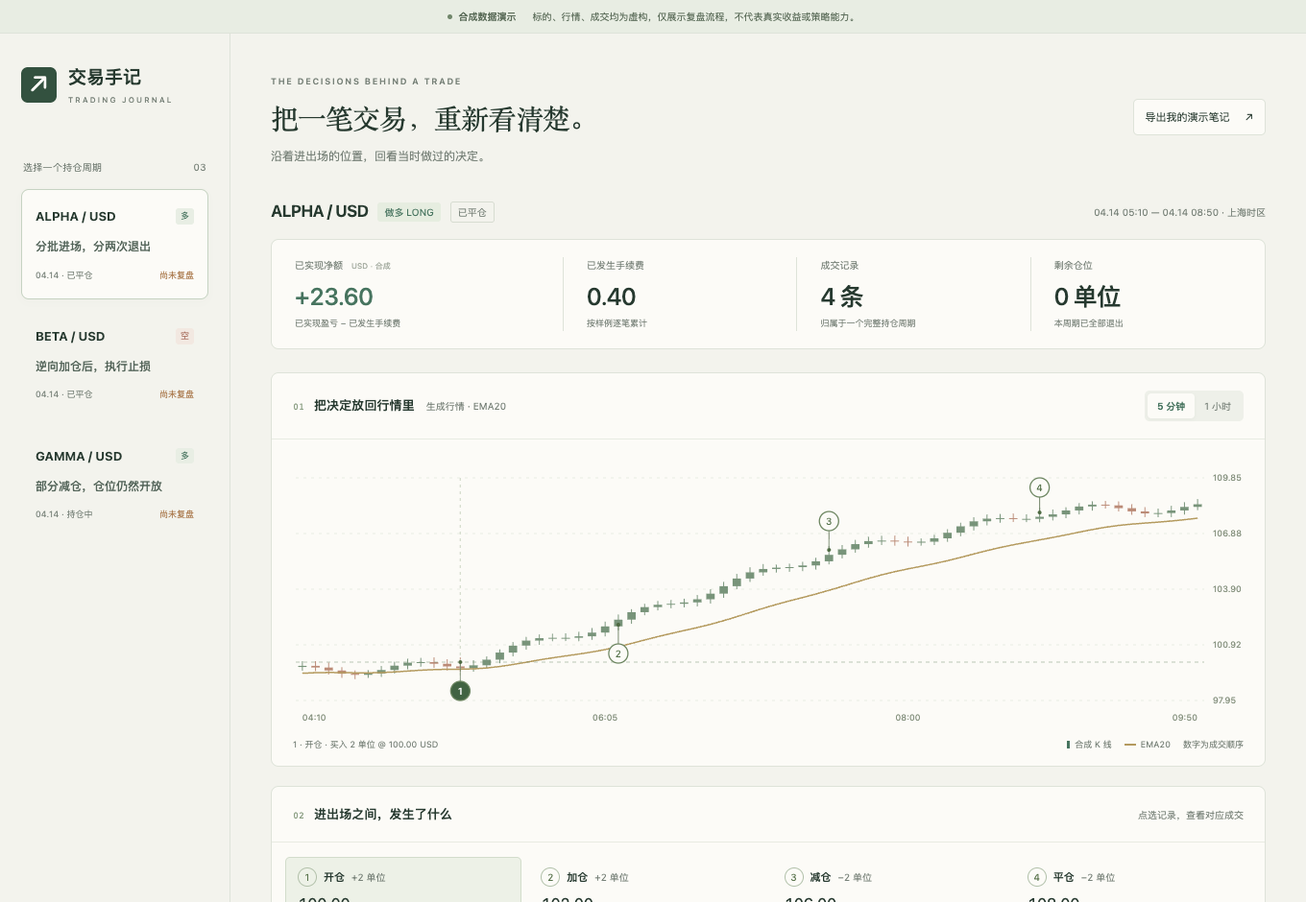
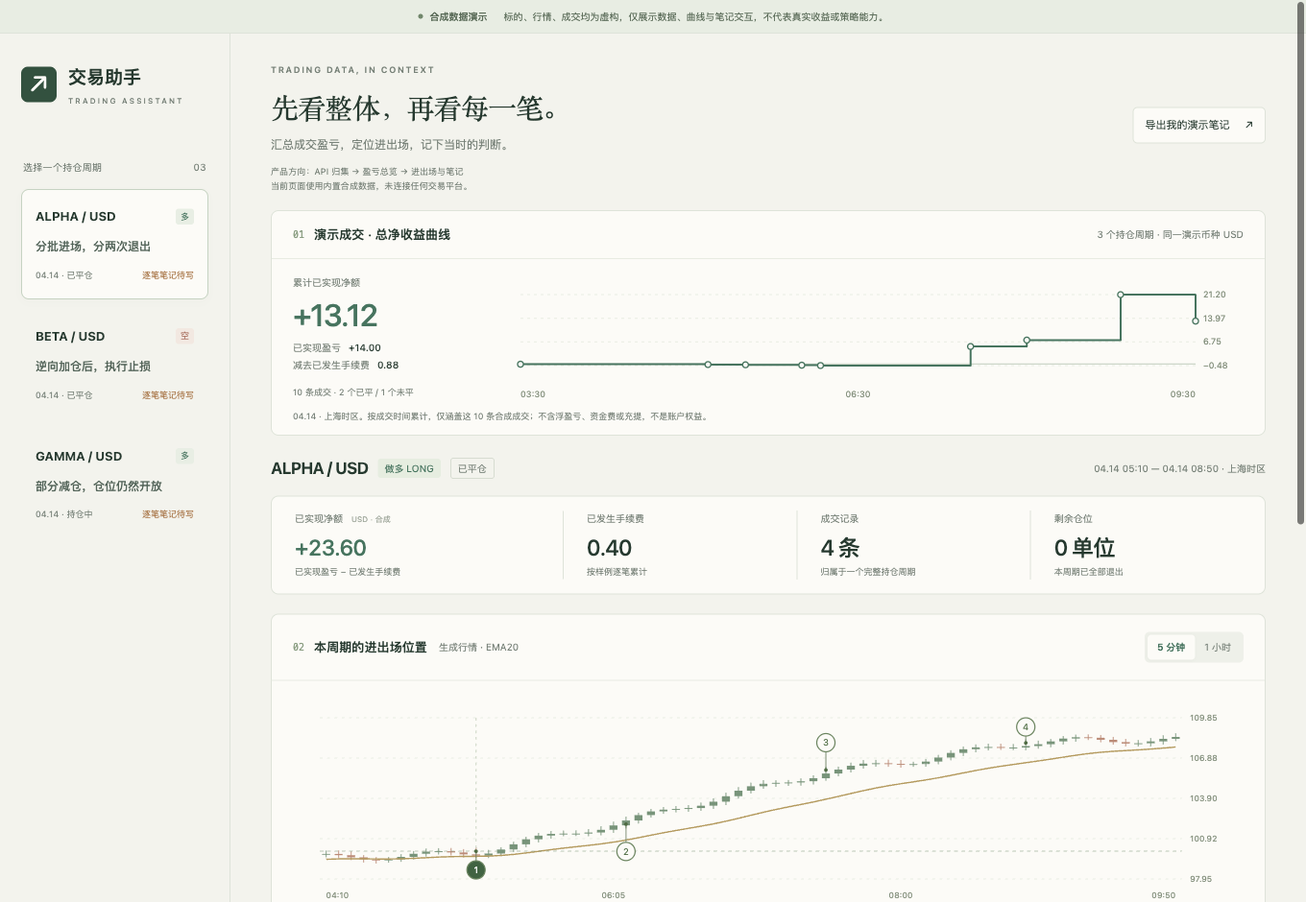
feat: present Trading Assistant around data, PnL and trade context

diff --git a/demos/trading/index.html b/demos/trading/index.html
@@ -4,7 +4,7 @@
   <meta charset="utf-8">
   <meta name="viewport" content="width=device-width,initial-scale=1">
   <meta name="color-scheme" content="light">
-  <title>交易手记 · 合成数据演示</title>
+  <title>交易助手 · 合成数据演示</title>
   <link rel="icon" href="data:,">
   <link rel="stylesheet" href="style.css">
   <script src="demo-model.js" defer></script>
@@ -12,25 +12,30 @@
 </head>
 <body>
 <a class="skip" href="#chart-title">跳到选中交易</a>
-<div class="demo-notice"><span><i></i>合成数据演示</span><p>标的、行情、成交均为虚构，仅展示复盘流程，不代表真实收益或策略能力。</p></div>
+<div class="demo-notice"><span><i></i>合成数据演示</span><p>标的、行情、成交均为虚构，仅展示数据、曲线与笔记交互，不代表真实收益或策略能力。</p></div>
 <div class="layout">
   <aside class="rail" aria-label="持仓周期选择">
-    <a class="brand" href="./"><span class="brand-icon" aria-hidden="true">↗</span><span>交易手记<small>TRADING JOURNAL</small></span></a>
+    <a class="brand" href="./"><span class="brand-icon" aria-hidden="true">↗</span><span>交易助手<small>TRADING ASSISTANT</small></span></a>
     <div class="rail-heading"><span>选择一个持仓周期</span><span>03</span></div>
     <div id="cycles" class="cycle-list"></div>
-    <div class="rail-foot"><span class="eyebrow">从过程里找原因</span><p>一次完整持仓，<br>可能包含很多次决定。</p><div>合成样例按开仓日归档。<br>全部交互在浏览器内完成。</div></div>
+    <div class="rail-foot"><span class="eyebrow">从数据回到判断</span><p>先看整体表现，<br>再看每一次进出场。</p><div>交易数据 → 整体表现 → 逐笔判断<br>演示成交仅在浏览器中计算。</div></div>
   </aside>
   <main>
-    <header class="page-header"><div><span class="eyebrow">THE DECISIONS BEHIND A TRADE</span><h1><span>把一笔交易，</span><span>重新看清楚。</span></h1><p>沿着进出场的位置，回看当时做过的决定。</p></div><button id="export-notes" class="quiet-button">导出我的演示笔记 <span aria-hidden="true">↗</span></button></header>
+    <header class="page-header"><div><span class="eyebrow">TRADING DATA, IN CONTEXT</span><h1><span>先看整体，</span><span>再看每一笔。</span></h1><p>汇总成交盈亏，定位进出场，记下当时的判断。</p><div class="product-direction">产品方向：API 归集 → 盈亏总览 → 进出场与笔记<br>当前页面使用内置合成数据，未连接任何交易平台。</div></div><button id="export-notes" class="quiet-button">导出我的演示笔记 <span aria-hidden="true">↗</span></button></header>
+    <section class="overview-card" aria-labelledby="overview-title">
+      <div class="panel-top"><div><span class="section-number">01</span><h2 id="overview-title">演示成交 · 总净收益曲线</h2></div><span class="subtle">3 个持仓周期 · 同一演示币种 USD</span></div>
+      <div class="overview-body"><div class="overview-stats"><span>累计已实现净额</span><strong id="overall-net"></strong><p>已实现盈亏 <b id="overall-gross"></b><br>减去已发生手续费 <b id="overall-fee"></b></p><span class="overview-count" id="overall-count"></span></div><div id="overall-chart" class="overall-chart"></div></div>
+      <p class="overview-scope">04.14 · 上海时区。按成交时间累计，仅涵盖这 10 条合成成交；不含浮盈亏、资金费或充提，不是账户权益。</p>
+    </section>
     <div class="selection-heading"><div><span id="instrument" class="instrument"></span><span id="direction" class="direction"></span><span id="position-state" class="state-label"></span></div><span id="date-range"></span></div>
     <section class="metrics" aria-label="选中周期统计"><div class="metric"><span>已实现净额 <small>USD · 合成</small></span><strong id="metric-net"></strong><p>已实现盈亏 − 已发生手续费</p></div><div class="metric"><span>已发生手续费</span><strong id="metric-fee"></strong><p>按样例逐笔累计</p></div><div class="metric"><span>成交记录</span><strong id="metric-count"></strong><p id="metric-count-caption"></p></div><div class="metric"><span>剩余仓位</span><strong id="metric-position"></strong><p id="metric-position-caption"></p></div></section>
     <section class="chart-card" aria-label="行情与成交">
-      <div class="panel-top"><div><span class="section-number">01</span><h2 id="chart-title">把决定放回行情里</h2><span class="chart-sub">生成行情 · EMA20</span></div><div class="intervals" aria-label="图表周期"><button data-interval="5m" aria-pressed="true">5 分钟</button><button data-interval="1h" aria-pressed="false">1 小时</button></div></div>
+      <div class="panel-top"><div><span class="section-number">02</span><h2 id="chart-title">本周期的进出场位置</h2><span class="chart-sub">生成行情 · EMA20</span></div><div class="intervals" aria-label="图表周期"><button data-interval="5m" aria-pressed="true">5 分钟</button><button data-interval="1h" aria-pressed="false">1 小时</button></div></div>
       <div id="chart" class="chart"></div>
       <div class="chart-bottom"><span id="chart-caption"></span><div class="legend"><span><i class="candle-key"></i>合成 K 线</span><span><i class="ema-key"></i>EMA20</span><span>数字为成交顺序</span></div></div>
     </section>
-    <section class="decisions-card" aria-label="成交时间线"><div class="panel-top"><div><span class="section-number">02</span><h2>进出场之间，发生了什么</h2></div><span class="subtle">点选记录，查看对应成交</span></div><div id="fill-timeline" class="fill-timeline"></div><div id="fill-detail" class="fill-detail" aria-live="polite"></div><p class="reason-line">样例记录的退出原因：<span id="declared-reason"></span></p></section>
-    <section class="notes-card" aria-labelledby="notes-title"><div class="panel-top"><div><span class="section-number">03</span><h2 id="notes-title">留下下一次用得上的判断</h2></div><span id="save-state" class="save-state" role="status" aria-live="polite"></span></div><p id="review-question" class="review-question"></p><div class="note-grid"><label class="wide">当时的依据与现在的看法<textarea id="reflection" maxlength="2000" rows="3" placeholder="例如：最初的入场依据是什么？后来的加仓是否改变了风险？"></textarea></label><label>你记录的出场原因<select id="exit-reason"><option value="">选择原因，不从盈亏推断</option></select></label><div><span class="field-label">这次想关注的问题</span><div id="issue-tags" class="issue-tags"></div></div><label class="wide">下一次，具体改哪一步？<textarea id="next-action" maxlength="2000" rows="2" placeholder="写一个能执行、也能检查的改变。"></textarea></label></div><div class="note-footer"><label class="complete-toggle"><input id="review-complete" type="checkbox"><span id="complete-label">这轮复盘已完成</span></label><span>只保存在当前浏览器，可导出带走。</span></div></section>
+    <section class="decisions-card" aria-label="成交时间线"><div class="panel-top"><div><span class="section-number">03</span><h2>逐笔成交与判断</h2></div><span class="subtle">点选记录，查看对应成交</span></div><div id="fill-timeline" class="fill-timeline"></div><div id="fill-detail" class="fill-detail" aria-live="polite"></div><div class="fill-note"><label for="fill-note"><span id="fill-note-label">这笔成交的笔记</span><span id="fill-save-state" class="save-state" role="status" aria-live="polite"></span></label><textarea id="fill-note" maxlength="2000" rows="3" placeholder="这次进场或离场的依据是什么？记录这笔成交发生时的想法。"></textarea><p>每笔成交单独保存，切换记录继续写。仅保存在此浏览器，可导出。</p></div><p class="reason-line">样例记录的退出原因：<span id="declared-reason"></span></p></section>
+    <details class="notes-card"><summary>周期补充记录 <span>出场原因、问题标签与下一次改进</span></summary><div class="panel-top"><h2 id="notes-title">这轮持仓的补充笔记</h2><span id="save-state" class="save-state" role="status" aria-live="polite"></span></div><p id="review-question" class="review-question"></p><div class="note-grid"><label class="wide">当时的依据与现在的看法<textarea id="reflection" maxlength="2000" rows="3" placeholder="例如：最初的入场依据是什么？后来的加仓是否改变了风险？"></textarea></label><label>你记录的出场原因<select id="exit-reason"><option value="">选择原因，不从盈亏推断</option></select></label><div><span class="field-label">这次想关注的问题</span><div id="issue-tags" class="issue-tags"></div></div><label class="wide">下一次，具体改哪一步？<textarea id="next-action" maxlength="2000" rows="2" placeholder="写一个能执行、也能检查的改变。"></textarea></label></div><div class="note-footer"><label class="complete-toggle"><input id="review-complete" type="checkbox"><span id="complete-label">这轮复盘已完成</span></label><span>只保存在当前浏览器，可导出带走。</span></div></details>
     <p class="method-note">示例采用固定成交与整数分金额，已实现盈亏按移动平均持仓成本计算。未平仓部分不计浮盈亏；未模拟资金费、滑点或杠杆收益率。图表由程序生成，没有市场数据连接。 <a href="https://ginbrooks.github.io/#trading" style="text-decoration:underline;text-underline-offset:3px;white-space:nowrap">返回作品集 ↗</a></p>
     <div id="export-status" role="status" aria-live="polite"></div>
   </main>

diff --git a/index.html b/index.html
@@ -4,10 +4,10 @@
   <meta charset="utf-8">
   <meta name="viewport" content="width=device-width, initial-scale=1">
   <meta name="theme-color" content="#172723">
-  <meta name="description" content="ginbrooks 的产品作品集：Book Wiki Reader、出运单证工作台与交易手记。体验有来源、可复核的本地工具。">
+  <meta name="description" content="ginbrooks 的产品作品集：Book Wiki Reader、出运单证工作台与交易助手。体验有来源、可复核的本地工具。">
   <meta property="og:type" content="website">
   <meta property="og:title" content="ginbrooks — 把想法做成可以用的工具">
-  <meta property="og:description" content="阅读、出运与交易复盘：三件从实际问题出发的产品。">
+  <meta property="og:description" content="阅读、出运与交易分析：三件从实际问题出发的产品。">
   <meta property="og:url" content="https://ginbrooks.github.io/">
   <title>ginbrooks — 把想法做成可以用的工具</title>
   <link rel="icon" href="assets/favicon.svg" type="image/svg+xml">
@@ -24,14 +24,14 @@
       <div class="hero-copy">
         <p class="eyebrow"><span class="tiny-line"></span>INDEPENDENT PROJECTS · 2026</p>
         <h1 id="hero-title">把想法做成<br>可以用的<span class="serif">工具。</span></h1>
-        <p class="intro">从阅读、出运到交易复盘，把信息整理成能查、能核对、<br class="desktop-break">能继续使用的工作台。</p>
+        <p class="intro">从阅读、出运到交易分析，把信息整理成能查、能核对、<br class="desktop-break">能继续使用的工作台。</p>
         <div class="hero-actions"><a class="button primary" href="#work">体验作品</a><a class="text-link" href="https://github.com/ginbrooks" target="_blank" rel="noopener noreferrer">查看 GitHub</a></div>
       </div>
       <div class="hero-index" aria-label="本期作品索引">
         <span class="index-heading">SELECTED WORK / 01—03</span>
         <a class="index-item" href="#book"><span class="index-number">01</span><span><strong>Book Wiki Reader</strong><small>阅读 → 理解 → 回到原文</small></span><span class="index-label">READING</span></a>
         <a class="index-item" href="#shipping"><span class="index-number">02</span><span><strong>出运单证工作台</strong><small>资料 → 复核 → 一致的文件</small></span><span class="index-label">OPERATIONS</span></a>
-        <a class="index-item" href="#trading"><span class="index-number">03</span><span><strong>交易手记</strong><small>成交 → 过程 → 下一次改进</small></span><span class="index-label">REFLECTION</span></a>
+        <a class="index-item" href="#trading"><span class="index-number">03</span><span><strong>交易助手</strong><small>API 接入 → 盈亏总览 → 逐笔复盘</small></span><span class="index-label">ANALYTICS</span></a>
         <p class="index-note">从具体场景出发。<br>让每一个结果，都有迹可循。</p>
       </div>
     </section>
@@ -83,26 +83,26 @@
       </div>
     </article>
     <article class="project shipping-project wrap" id="trading" aria-labelledby="trading-title">
-      <div class="project-heading"><p class="eyebrow"><span class="project-number">03</span> TRADING & REFLECTION</p><span class="project-kind">个人交易复盘 / 本地工具</span></div>
+      <div class="project-heading"><p class="eyebrow"><span class="project-number">03</span> TRADING DATA & ANALYTICS</p><span class="project-kind">API 数据接入 / 盈亏分析</span></div>
       <div class="project-grid">
         <div class="project-copy">
-          <h2 id="trading-title">交易手记<span class="serif">。</span></h2>
-          <p class="project-lead">把一笔交易，<br>从头到尾看清楚。</p>
-          <p class="body-copy">一次开仓、加仓、分批退出，往往散成多条成交。把它们放回同一段持仓过程，对照行情与费用，再留下下一次能用上的复盘。</p>
-          <div class="tags"><span>持仓周期</span><span>成交追溯</span><span>结构化复盘</span></div>
-          <div class="project-actions"><a class="button primary" href="demos/trading/">体验交易复盘</a><span class="source-note">产品源码私有</span></div>
-          <p class="demo-note">独立交互演示，交易与行情均为合成数据。</p>
+          <h2 id="trading-title">交易助手<span class="serif">。</span></h2>
+          <p class="project-lead">接上交易数据，<br>看清整体，也看清每一笔。</p>
+          <p class="body-copy">通过平台 API 同步成交与费用，自动整理持仓和盈亏。先看累计交易表现，再点开一笔交易，查看入场出场位置，并把复盘笔记留在对应记录下。</p>
+          <div class="tags"><span>API 同步</span><span>盈亏曲线</span><span>买卖点与笔记</span></div>
+          <div class="project-actions"><a class="button primary" href="demos/trading/">体验交易助手</a><span class="source-note">产品源码私有</span></div>
+          <p class="demo-note">独立合成演示：总览曲线、进出场图与交易笔记。</p>
         </div>
-        <a class="product-frame trading-frame" href="demos/trading/" aria-label="体验交易手记的合成数据演示">
-          <div class="window-toolbar"><span class="window-dots" aria-hidden="true"><i></i><i></i><i></i></span><span>Trading Journal / 交易手记</span><span class="toolbar-meta">REFLECT</span></div>
-          <div class="screenshot-wrap"><img src="assets/trading-preview.png" alt="交易手记合成演示：持仓周期、成交图表与结构化复盘卡" width="1360" height="940" loading="lazy"></div>
-          <div class="frame-caption"><span>看清发生了什么，留下下一次的改进。</span><strong>进入演示</strong></div>
+        <a class="product-frame trading-frame" href="demos/trading/" aria-label="体验交易助手的合成数据演示">
+          <div class="window-toolbar"><span class="window-dots" aria-hidden="true"><i></i><i></i><i></i></span><span>Trading Assistant / 交易助手</span><span class="toolbar-meta">ANALYZE</span></div>
+          <div class="screenshot-wrap"><img src="assets/trading-preview.png" alt="交易助手合成演示：累计盈亏曲线、入场出场位置与交易笔记" width="1360" height="940" loading="lazy"></div>
+          <div class="frame-caption"><span>从整体交易表现，看到每一次进出场。</span><strong>进入演示</strong></div>
         </a>
       </div>
       <div class="detail-grid">
-        <div><span class="detail-label">问题</span><h3>盈亏结果，讲不完一次交易。</h3><p>开仓、加仓和退出分散在不同记录里，只看最后的数字，很难回忆当时的判断与执行。</p></div>
-        <div><span class="detail-label">处理方式</span><h3>把成交、行情和判断放在一起。</h3><p>按持仓周期保留完整过程，区分费用和已实现盈亏。记录出场原因、问题标签、下一次改进，再明确标记复盘完成。</p></div>
-        <div><span class="detail-label">实现边界</span><h3>公开体验，使用合成样例。</h3><p>本机产品支持只读历史同步；公开演示独立实现，不连接账户。行情与收益仅用于说明操作，不代表真实交易表现。</p></div>
+        <div><span class="detail-label">数据接入</span><h3>成交和费用，直接从 API 归集。</h3><p>减少手动抄录与反复导表。同步记录后整理持仓过程，保留成交来源、费用和历史覆盖情况。</p></div>
+        <div><span class="detail-label">分析与复盘</span><h3>先看总曲线，再看买卖点。</h3><p>查看累计已实现净盈亏，回到 5 分钟 / 1 小时图上的入场出场点，在对应交易下记下当时的判断。</p></div>
+        <div><span class="detail-label">接入进度</span><h3>向多平台统一分析扩展。</h3><p>当前支持 Binance USD-M，点击同步更新。跨平台合并盈亏与持续实时同步待接通；公开演示使用合成数据。</p></div>
       </div>
     </article>
     <section class="approach" id="approach" aria-labelledby="approach-title">
@@ -115,7 +115,7 @@
         </div>
       </div>
     </section>
-    <section class="closing wrap"><p class="eyebrow">FROM EVERYDAY WORK</p><h2>从一件麻烦的小事开始。</h2><p>这些项目还在继续完善。公开项目附源码，交易手记提供合成体验。</p><a class="button primary" href="https://github.com/ginbrooks" target="_blank" rel="noopener noreferrer">在 GitHub 看项目</a></section>
+    <section class="closing wrap"><p class="eyebrow">FROM EVERYDAY WORK</p><h2>从一件麻烦的小事开始。</h2><p>这些项目还在继续完善。公开项目附源码，交易助手提供合成体验。</p><a class="button primary" href="https://github.com/ginbrooks" target="_blank" rel="noopener noreferrer">在 GitHub 看项目</a></section>
   </main>
   <footer class="wrap"><a class="wordmark" href="#top">ginbrooks<span class="wordmark-suffix"> / works</span></a><span>阅读 · 工具 · 实际工作</span><span>© 2026 ginbrooks</span></footer>
 </body>

diff --git a/demos/trading/demo.js b/demos/trading/demo.js
@@ -5,6 +5,7 @@
   const $ = id => document.getElementById(id);
   const STORAGE_KEY = 'trading-journal-public-demo-v1';
   const reviews = Object.fromEntries(examples.map(item => [item.id, model.blankReview()]));
+  const fillNotes = Object.fromEntries(examples.map(item => [item.id, model.sanitizeFillNotes(null, item.fills.length)]));
   let selection = examples[0], activeFill = 0, interval = '5m', storageError = '', savedIds = new Set();
   try {
     const saved = JSON.parse(localStorage.getItem(STORAGE_KEY) || 'null');
@@ -13,6 +14,7 @@
         reviews[item.id] = model.sanitizeReview(saved.reviews[item.id]);
         savedIds.add(item.id);
       }
+      for (const item of examples) fillNotes[item.id] = model.sanitizeFillNotes(saved.fillNotes?.[item.id], item.fills.length);
     }
   } catch (_) { storageError = '未能读取本机存储；新笔记仍可导出。'; }
 
@@ -48,8 +50,9 @@
       heading.append(element('strong', '', item.instrument), element('span', 'chip' + (item.direction === 'short' ? ' short' : ''), item.direction === 'long' ? '多' : '空'));
       card.append(heading, element('h3', '', item.title));
       const meta = element('div', 'meta');
+      const noteCount = fillNotes[item.id].filter(note => note.trim()).length;
       meta.append(element('span', '', '04.14 · ' + (totals.closed ? '已平仓' : '持仓中')),
-        element('span', 'review-dot' + (reviews[item.id].complete ? ' complete' : ''), statusText(reviews[item.id])));
+        element('span', 'review-dot', noteCount ? `${noteCount} 笔有笔记` : '逐笔笔记待写'));
       card.append(meta);
       card.addEventListener('click', () => {selection = item; activeFill = 0; render();});
       holder.append(card);
@@ -80,6 +83,40 @@
     for (const [name, value] of Object.entries(attrs)) node.setAttribute(name, String(value));
     if (text !== undefined) node.textContent = text;
     return node;
+  }
+  function renderOverview() {
+    const result = model.netCurve(examples);
+    $('overall-net').textContent = money(result.net, true);
+    $('overall-net').className = result.net >= 0 ? 'positive' : 'negative';
+    $('overall-gross').textContent = money(result.gross, true);
+    $('overall-fee').textContent = money(result.fees);
+    $('overall-count').textContent = `${result.count} 条成交 · 2 个已平 / 1 个未平`;
+    const wrapper = $('overall-chart'), width = Math.max(260, wrapper.clientWidth), height = wrapper.clientHeight;
+    const first = result.points[0].time, last = result.points[result.points.length - 1].time;
+    const left = 15, right = width - 50, top = 16, bottom = height - 30;
+    const min = Math.min(0, ...result.points.map(point => point.net)), max = Math.max(0, ...result.points.map(point => point.net));
+    const pad = Math.max(25, (max - min) * .15);
+    const x = value => left + (value - first) / Math.max(1, last - first) * (right - left);
+    const y = value => bottom - (value - min + pad) / (max - min + pad * 2) * (bottom - top);
+    const svg = svgElement('svg', {viewBox: `0 0 ${width} ${height}`, role: 'img', 'aria-label': `10 条合成成交的累计已实现净额，最终 ${money(result.net)} USD；不是账户权益`});
+    for (let index = 0; index < 4; index++) {
+      const value = min + (max - min) * index / 3;
+      svg.append(svgElement('line', {x1: left, x2: right, y1: y(value), y2: y(value), stroke: '#e8ece2', 'stroke-dasharray': '3 4'}));
+      svg.append(svgElement('text', {x: right + 8, y: y(value) + 3, fill: '#85917e', 'font-size': 9}, money(value)));
+    }
+    svg.append(svgElement('line', {x1: left, x2: right, y1: y(0), y2: y(0), stroke: '#bcc8b8'}));
+    let path = `M ${left} ${y(0)}`;
+    for (const point of result.points) path += ` H ${x(point.time)} V ${y(point.net)}`;
+    svg.append(svgElement('path', {d: path, fill: 'none', stroke: '#47745f', 'stroke-width': 2, 'stroke-linejoin': 'round'}));
+    for (const point of result.points) {
+      const dot = svgElement('circle', {cx: x(point.time), cy: y(point.net), r: 3, fill: '#fcfbf7', stroke: '#47745f', 'stroke-width': 1.4});
+      dot.append(svgElement('title', {}, `${time(point.time, true)} · 累计 ${money(point.net, true)} USD · 已计 ${point.count} 条成交`));
+      svg.append(dot);
+    }
+    for (const [value, anchor] of [[first, 'start'], [(first + last) / 2, 'middle'], [last, 'end']]) {
+      svg.append(svgElement('text', {x: x(value), y: height - 8, fill: '#85917e', 'font-size': 9, 'text-anchor': anchor}, time(value)));
+    }
+    wrapper.replaceChildren(svg);
   }
   function renderChart() {
     const wrapper = $('chart');
@@ -170,14 +207,19 @@
       const cell = element('div');cell.append(element('span', '', label), element('strong', '', value));detail.append(cell);
     }
     $('declared-reason').textContent = selection.declaredReason;
+    $('fill-note-label').textContent = `第 ${activeFill + 1} 笔 · ${fill.action}的判断`;
+    $('fill-note').value = fillNotes[selection.id][activeFill];
+    updateSaveState();
   }
   function updateSaveState() {
     $('save-state').textContent = storageError || (savedIds.has(selection.id) ? '已保存到此浏览器' : '暂无本机记录');
     $('save-state').className = 'save-state' + (storageError ? ' error' : '');
+    $('fill-save-state').textContent = $('save-state').textContent;
+    $('fill-save-state').className = $('save-state').className;
   }
   function persist() {
     try {
-      localStorage.setItem(STORAGE_KEY, JSON.stringify({version: 1, updatedAt: new Date().toISOString(), reviews}));
+      localStorage.setItem(STORAGE_KEY, JSON.stringify({version: 1, updatedAt: new Date().toISOString(), reviews, fillNotes}));
       storageError = '';
       savedIds.add(selection.id);
     } catch (_) { storageError = '未保存：本机存储不可用，请导出笔记。'; }
@@ -207,7 +249,7 @@
     $('review-question').textContent = selection.question;
     renderTags();updateSaveState();
   }
-  function render() {renderCycles();renderSummary();renderChart();renderFills();renderReview();}
+  function render() {renderCycles();renderOverview();renderSummary();renderChart();renderFills();renderReview();}
   for (const reason of model.exitReasons) {
     const option = element('option', '', reason);option.value = reason;$('exit-reason').append(option);
   }
@@ -215,17 +257,19 @@
     $(id).addEventListener(id === 'exit-reason' ? 'change' : 'input', event => {reviews[selection.id][property] = event.target.value;persist();});
   }
   $('review-complete').addEventListener('change', event => {reviews[selection.id].complete = event.target.checked;persist();});
+  $('fill-note').addEventListener('input', event => {fillNotes[selection.id][activeFill] = event.target.value;persist();});
   document.querySelectorAll('[data-interval]').forEach(button => button.addEventListener('click', () => {interval = button.dataset.interval;renderChart();}));
   $('export-notes').addEventListener('click', () => {
     const report = {version: 1, context: '合成交易演示中的本机笔记，不含真实交易或收益记录', exportedAt: new Date().toISOString(),
-      entries: examples.map(item => ({exampleId: item.id, instrument: item.instrument, review: {...reviews[item.id]}}))};
+      entries: examples.map(item => ({exampleId: item.id, instrument: item.instrument, review: {...reviews[item.id]},
+        fillNotes: fillNotes[item.id].map((note, index) => ({fillIndex: index, note}))}))};
     const file = new Blob([JSON.stringify(report, null, 2)], {type: 'application/json'});
     const url = URL.createObjectURL(file), anchor = element('a');
-    anchor.href = url;anchor.download = 'trading-journal-demo-notes.json';document.body.append(anchor);anchor.click();anchor.remove();
+    anchor.href = url;anchor.download = 'trading-assistant-demo-notes.json';document.body.append(anchor);anchor.click();anchor.remove();
     setTimeout(() => URL.revokeObjectURL(url), 1000);
     $('export-status').textContent = '演示笔记已导出；文件只包含你在此页面记录的文字与状态。';
   });
   render();
   let frame;
-  new ResizeObserver(() => {cancelAnimationFrame(frame);frame = requestAnimationFrame(renderChart);}).observe($('chart'));
+  new ResizeObserver(() => {cancelAnimationFrame(frame);frame = requestAnimationFrame(() => {renderChart();renderOverview();});}).observe($('chart'));
 })();

diff --git a/demos/trading/style.css b/demos/trading/style.css
@@ -6,3 +6,9 @@
 @media(prefers-reduced-motion:reduce){*{scroll-behavior:auto!important;transition:none!important}}
 
 @media(max-width:560px){.page-header h1 span{display:block}}
+
+/* Overall performance first; cycle details and notes remain below. */
+.page-header{margin-bottom:24px}.overview-card{background:var(--paper);border:1px solid var(--line);border-radius:8px;margin-bottom:24px;overflow:hidden}.overview-card .panel-top{padding:14px 22px}.overview-body{display:grid;grid-template-columns:210px minmax(0,1fr);gap:12px;padding:15px 22px 0}.overview-stats{padding-top:6px}.overview-stats>span{font-size:10px;color:var(--muted)}.overview-stats>strong{display:block;font-size:34px;line-height:1.2;font-weight:500;letter-spacing:-1px;margin:9px 0 12px}.overview-stats p{font-size:10px;color:var(--muted);line-height:2}.overview-stats b{font-weight:500;color:var(--ink);margin-left:5px}.overview-stats .overview-count{font-size:9px}.overall-chart{height:180px;min-width:0}.overview-scope{margin:8px 22px 15px;font-size:9px;color:var(--muted)}.metrics{padding:15px 0;margin-bottom:20px}.metric strong{font-size:23px;margin:8px 0 5px}.chart{height:265px}.notes-card summary{padding:17px 22px;font-size:12px;cursor:pointer}.notes-card summary span{font-size:10px;color:var(--muted);margin-left:12px}.fill-note{margin:4px 22px 18px}.fill-note>label{display:flex;align-items:center;justify-content:space-between;font-size:12px}.fill-note p{font-size:9px;color:var(--muted);margin:6px 0}.fill-note textarea{min-height:75px}.product-direction{font-size:9px;color:var(--muted);margin:12px 0 0;letter-spacing:.1px}
+@media(max-width:760px){.overview-body{grid-template-columns:170px minmax(0,1fr);gap:6px}.overview-stats>strong{font-size:30px}.overview-card .panel-top{flex-wrap:wrap;gap:4px}}
+@media(max-width:560px){.page-header{margin-bottom:20px}.page-header h1{font-size:27px}.overview-body{grid-template-columns:1fr;padding:12px 14px 0}.overview-stats{display:grid;grid-template-columns:1fr 1fr;align-items:center;padding-top:0}.overview-stats>span{grid-column:1}.overview-stats>strong{grid-column:1;grid-row:2;font-size:31px;margin:4px 0}.overview-stats p{grid-column:2;grid-row:1/3;text-align:right;font-size:9px;margin:0}.overview-stats .overview-count{grid-column:1/-1;margin:3px 0 6px}.overall-chart{height:160px}.overview-card .panel-top{padding:14px}.overview-scope{margin:6px 14px 14px;font-size:9px}.metrics{padding:0}.chart{height:260px}.notes-card summary{padding:15px 14px}.notes-card summary span{display:block;margin-left:0}.fill-note{margin:4px 14px 16px}.fill-note>label{gap:9px;align-items:flex-start}.fill-note .save-state{max-width:140px;text-align:right}.product-direction{font-size:9px;max-width:300px;line-height:1.8}}
+@media(min-width:900px){main{padding-top:25px}.page-header{margin-bottom:18px}.overview-body{padding-top:10px}.overview-stats{padding-top:2px}.overview-stats>strong{font-size:32px;margin:5px 0 5px}.overview-stats p{margin:6px 0;line-height:1.8}.overall-chart{height:142px}.overview-scope{margin-top:5px;margin-bottom:12px}.overview-card{margin-bottom:20px}.chart{height:235px}}

diff --git a/demos/trading/demo-model.js b/demos/trading/demo-model.js
@@ -66,6 +66,27 @@
     return {entries, quantity, gross, fees, net: gross - fees, peak, closed: quantity === 0};
   }
 
+  function netCurve(samples) {
+    const events = samples.flatMap(sample => ledger(sample).entries.map(fill => ({
+      time: fill.time, realized: fill.realized, fee: fill.fee,
+    })));
+    events.sort((a, b) => a.time - b.time);
+    const points = [];
+    let gross = 0, fees = 0, count = 0;
+    for (const event of events) {
+      if (!Number.isSafeInteger(event.time)) throw Error('Invalid synthetic event time');
+      gross += event.realized;
+      fees += event.fee;
+      count++;
+      if (![gross, fees, gross - fees].every(Number.isSafeInteger)) throw Error('Curve exceeds safe integer cents');
+      const point = {time: event.time, gross, fees, net: gross - fees, count};
+      // Simultaneous fills have one end-of-timestamp value, without arbitrary ordering.
+      if (points.length && points[points.length - 1].time === event.time) points[points.length - 1] = point;
+      else points.push(point);
+    }
+    return {points, gross, fees, net: gross - fees, count};
+  }
+
   function candles(example) {
     const points = [[0, example.anchor * .94], [160, example.anchor * .965],
       [300, example.anchor * .985], ...example.fills.map(fill => [fill.bar, fill.price]),
@@ -125,7 +146,10 @@
       nextAction: typeof item.nextAction === 'string' ? item.nextAction.slice(0, 2000) : '',
       complete: item.complete === true};
   }
-  const api = {examples, ledger, candles, aggregate, movingAverage, issueTags, exitReasons, blankReview, sanitizeReview};
+  function sanitizeFillNotes(value, count) {
+    return Array.from({length: count}, (_, index) => typeof value?.[index] === 'string' ? value[index].slice(0, 2000) : '');
+  }
+  const api = {examples, ledger, netCurve, candles, aggregate, movingAverage, issueTags, exitReasons, blankReview, sanitizeReview, sanitizeFillNotes};
   if (typeof module === 'object' && module.exports) module.exports = api;
   else global.JournalDemoModel = api;
 })(typeof window === 'undefined' ? globalThis : window);

diff --git a/demos/trading/README.md b/demos/trading/README.md
@@ -1,12 +1,14 @@
-# 交易手记 · Trading Journal
+# 交易助手 · Trading Assistant
 
-一个独立编写的公开交互展示：把开仓、加仓、减仓和平仓放回同一个持仓周期，沿着图表回看，再留下结构化复盘。
+一个从零独立编写的公开交互展示，按「交易数据 → 整体表现 → 逐笔判断」组织。先看所有演示成交的总净收益曲线，再选一个持仓周期，定位进出场，为每条成交留下笔记。
+
+原应用当前支持 Binance USD-M API 只读同步，由用户手动触发；多平台和持续实时同步尚未接通。这个独立页面不连接任何交易平台，也不需要 API key。
 
 **全部为合成数据。** ALPHA、BETA、GAMMA 是虚构标的，价格、成交、手续费和情景均为演示专门构造，不来自任何真实账户或历史行情，也不代表真实收益、策略效果或投资建议。
 
 这个目录没有复制私有项目的源码、API 数据结构、真实成交或生产服务。它只展示产品交互方向，与真实交易应用的实现和数据连接独立。
 
-![交易手记的合成数据界面](screenshot.png)
+![交易助手的合成数据界面](screenshot.png)
 
 ## 运行
 
@@ -20,10 +22,12 @@ python3 -m http.server 8923 --bind 127.0.0.1
 
 ## 可以实际操作什么
 
+- 首屏查看三个样例的总净收益曲线，按成交时间累计已实现盈亏减去已发生手续费。相同时间的成交合并为一个曲线点。
 - 切换三个持仓周期：分批退出的多单、明确手工标注止损的空单，以及尚未完全退出的多单。
 - 切换 5 分钟与 1 小时 K 线；1 小时数据由相同的 5 分钟 OHLC 汇总，EMA20 各自计算。
 - 点击成交编号或明细，联动图表位置、买卖方向、成交后仓位、已实现盈亏和该条费用。
-- 分别记录当时依据、出场原因、问题标签、下一次改进和明确的复盘完成状态。
+- 给每条成交单独写笔记；点击不同成交时，笔记与图表定位一起切换。
+- 可展开周期补充记录，保留原有依据、出场原因、问题标签、下一次改进和完成状态。
 - 在当前浏览器保存笔记，刷新后继续；导出 JSON 带走。禁止本地存储时会明确显示未保存，仍可导出当前输入。
 
 止损原因来自样例显式记录，不是根据亏损反推。持仓中的样例可以完成当前阶段的复盘，但不会因此被标记为已平仓。
@@ -38,9 +42,11 @@ python3 -m http.server 8923 --bind 127.0.0.1
 | BETA 空单 | -12.00 | 0.32 | -12.32 | 0 |
 | GAMMA 多单 | 2.00 | 0.16 | 1.84 | 3 |
 
-单位为演示 USD。不计算剩余仓位浮盈亏，不模拟资金费、滑点或杠杆收益率。K 线为确定性生成，不是回测或真实行情重放。EMA20 使用前 20 根收盘价的简单平均作为初始值；图表只截取显示窗口，计算包含窗口前的数据。
+总曲线共 10 条成交：已实现盈亏 **14.00**，已发生费用 **0.88**，累计净额 **13.12 USD**。开仓或加仓时的费用立即计入，不等待平仓。曲线采用成交发生时间；原应用按开仓日归档的汇总采用不同日期口径，两者都不是账户权益。
 
-笔记存储在当前浏览器的 `trading-journal-public-demo-v1` 项下，没有上传接口，不跨设备同步。导出文件包含用户在页面输入的文字；本目录的公开示例不会预填任何真实用户经历。
+单位为演示 USD。不包含充值、提现、账户初始余额；不计算剩余仓位浮盈亏，不模拟资金费、滑点或杠杆收益率。K 线为确定性生成，不是回测或真实行情重放。EMA20 使用前 20 根收盘价的简单平均作为初始值；图表只截取显示窗口，计算包含窗口前的数据。
+
+笔记存储在当前浏览器的 `trading-journal-public-demo-v1` 项下。保留旧键名与 version 1，原有周期笔记继续可读，新增 `fillNotes` 以样例 ID 与成交序号隔离保存，没有上传接口，不跨设备同步。导出文件包含用户在页面输入的文字；本目录的公开示例不会预填任何真实用户经历。
 
 ## 验证
 
@@ -48,6 +54,6 @@ python3 -m http.server 8923 --bind 127.0.0.1
 node --test tests/model.test.cjs
 ```
 
-测试覆盖多空盈亏与费用、加减仓后持仓、未平仓状态、非法减仓、K 线一致性、小时汇总、EMA 初值与笔记结构。网页支持窄屏；实际浏览器截图与验收记录放在 `output/playwright/`，不参与运行。
+测试覆盖多空盈亏与费用、加减仓后持仓、未平仓状态、非法减仓、K 线一致性、小时汇总、EMA 初值、笔记结构，以及总曲线排序、同刻合并、空输入、开仓费用、未平仓费用、非法时间和整数金额范围。网页支持窄屏；浏览器 QA 临时产物不参与运行或发布。
 
-已在浏览器实测周期/成交/图表切换、笔记隔离与刷新保存、JSON 导出、存储禁用后的明确失败提示，以及 390px 窄屏。`screenshot.png` 是清空本机测试笔记后截取的 1360 × 940 默认页面，`screenshot-mobile.png` 为 390px 页面；没有伪造完成状态。
+已在浏览器实测总览/周期/成交/图表切换、逐笔笔记隔离与刷新保存、旧周期笔记兼容、JSON 导出、存储禁用后的明确失败提示，以及 390px 窄屏。`screenshot.png` 是清空本机测试笔记后截取的 1360 × 940 默认页面，`screenshot-mobile.png` 为 390px 页面；没有伪造完成状态。

diff --git a/README.md b/README.md
@@ -1,6 +1,6 @@
 # ginbrooks / works
 
-A small, static portfolio for three practical products: Book Wiki Reader, Shipping Document Workbench, and Trading Journal.
+A small, static portfolio for three practical products: Book Wiki Reader, Shipping Document Workbench, and Trading Assistant.
 
 ## Run locally
 
@@ -14,9 +14,9 @@ Open `http://127.0.0.1:4173`. No package installation, model credentials, analyt
 
 - [Book Wiki Reader](https://github.com/ginbrooks/book-wiki-reader-skill): local text import and archival, a portable reading workspace, and a Codex co-reading skill.
 - [Shipping Document Workbench](https://github.com/ginbrooks/shipping-document-workbench): review-first export-document workflows, deterministic calculations, and a public synthetic-data preflight demo.
-- Trading Journal: an independently written synthetic interactive demo of position-cycle review, chart context and structured reflection. The actual product source remains private.
+- Trading Assistant: API-driven trade data organization, cumulative realized PnL, entry/exit chart markers, and notes attached to trades. The current private review integration supports Binance USD-M with manually triggered updates; multi-platform aggregation and continuous real-time synchronization are not yet connected. The public interactive demo is independently written with synthetic data.
 
-The `demos/` directory contains self-contained public examples. Book and Shipping demos are copied from their public source repositories; Trading Journal is authored separately for this portfolio and contains no private implementation code. Examples use original/synthetic content. They do not connect to private libraries, customer records or production services. Capability details and limitations live in each project's README.
+The `demos/` directory contains self-contained public examples. Book and Shipping demos are copied from their public source repositories; Trading Assistant is authored separately for this portfolio and contains no private implementation code. Examples use original/synthetic content. They do not connect to private libraries, customer records or production services. Capability details and limitations live in each project's README.
 
 ## Publish on GitHub Pages
 
